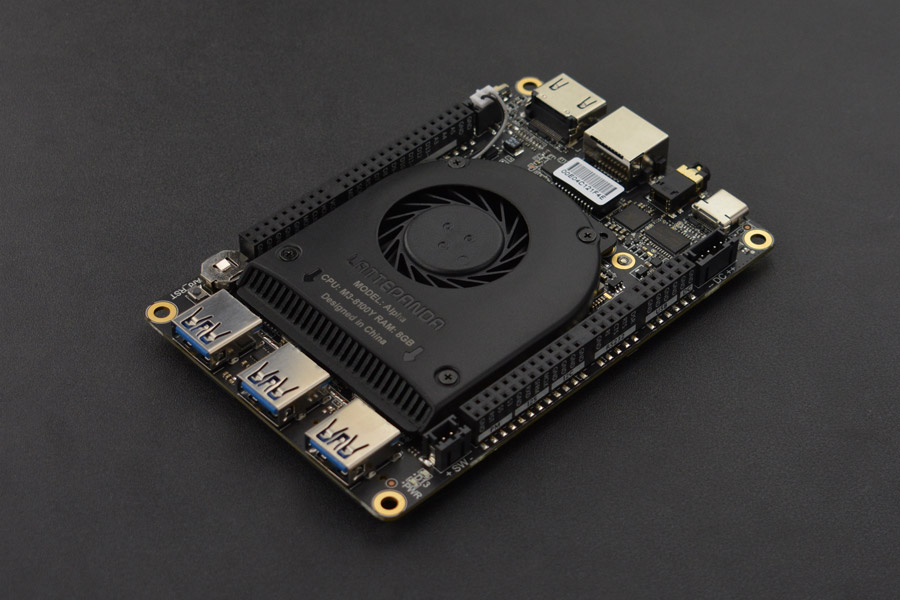
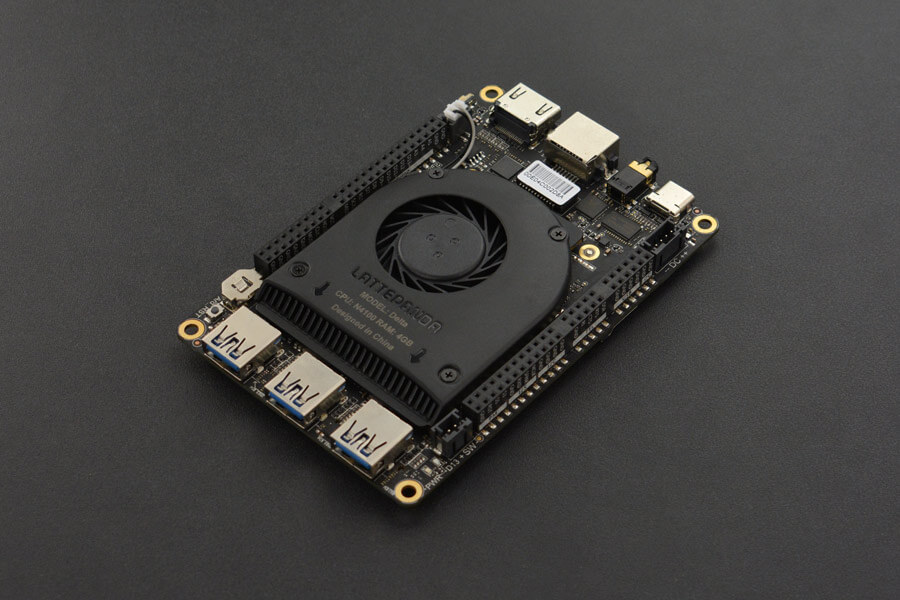
GitBook: [master] one page and 2 assets modified

Changed region(s): [[0.1556, 0.12, 0.8711, 0.9]]

diff --git a/electronics/external-boards/lattepanda.md b/electronics/external-boards/lattepanda.md
@@ -4,13 +4,13 @@ description: A powerful micro-processor capable of running desktop windows.
 
 # LattePanda
 
-{% hint style="info" %}
-This page is still under construction. TODO: Add delta series portion.
-{% endhint %}
-
 The LattePanda is a powerful mini-PC capable of running desktop windows, with an [arduino](arduino.md) pinout and co-processor. Its power comes mostly from its large amount of storage and RAM. 
 
 Although it might be overkill for most usages in VEX robotics, its still worth documenting for more memory-intensive programs or competition hosting purposes.
+
+**According to LattePanda Marketing -** 
+
+**"LattePanda is a new single board computer that runs a full version of Windows 10! Each unit comes preinstalled with Windows 10 Home Edition."**
 
 ### LattePanda V1.0
 
@@ -95,7 +95,7 @@ The LattePanda Alpha series comes in the 800s and 864s variants, with the 864s h
 
 **"Alpha Edition** - Generally refers to the leader in a wolf pack, α / Alpha. It will also be the leader in the LattePanda series, the most powerful in performance. Known as the leader of the Pandas, or "AlphaPanda" for short.**"**
 
-![LattePanda Alpha Series](../../.gitbook/assets/image%20%2810%29.png)
+![LattePanda Alpha Series](../../.gitbook/assets/image%20%2811%29.png)
 
 ### **Specifications:**
 
@@ -123,14 +123,14 @@ The LattePanda Alpha series comes in the 800s and 864s variants, with the 864s h
       <td style="text-align:left">Processor(s):</td>
       <td style="text-align:left">
         <ul>
-          <li>Intel Cherry Trail Z8350 Quad Core</li>
+          <li>Intel 8th M3-8100Y</li>
           <li>Integrated Arduino Co-processor <a href="arduino.md#arduino-leonardo">(Arduino Leonardo)</a>
           </li>
         </ul>
       </td>
       <td style="text-align:left">
         <ul>
-          <li>Intel HD Graphics 615, 300-900MHz</li>
+          <li>Intel 8th M3-8100Y</li>
           <li>Integrated Arduino Co-processor <a href="arduino.md#arduino-leonardo">(Arduino Leonardo)</a>
           </li>
         </ul>
@@ -187,16 +187,93 @@ The LattePanda Alpha series comes in the 800s and 864s variants, with the 864s h
       <td style="text-align:left">115mm<em> </em>x 78mm x 14 mm</td>
       <td style="text-align:left">115mm x<em> </em>78mm x 14 mm</td>
     </tr>
+    <tr>
+      <td style="text-align:left">GPIO</td>
+      <td style="text-align:left">2x 50p GPIOs including I2C, I2S, USB, RS232, UART, RTC</td>
+      <td style="text-align:left">2x 50p GPIOs including I2C, I2S, USB, RS232, UART, RTC</td>
+    </tr>
   </tbody>
 </table>
 
 ### LattePanda Delta Series
 
-The LattePanda Delta series comes in the 432s series.
+The LattePanda Delta series comes in the 432 ****model, and is nearly identical to the 800 series. The only differences come in the specifications in storage, processor, and memory.
 
 **According to LattePanda Marketing -** 
 
 **"** **Delta Edition -** Mathematical Character △; a triangle. In terms of product design, performance, and price, it signals a compromise between the three. It keeps the perfect balancing, while balancing best reflects the beauty of engineering.**"**
+
+![LattePanda Delta 432](../../.gitbook/assets/image%20%2810%29.png)
+
+#### 
+
+<table>
+  <thead>
+    <tr>
+      <th style="text-align:left">Specification</th>
+      <th style="text-align:left"> <b>Delta 432</b>
+      </th>
+    </tr>
+  </thead>
+  <tbody>
+    <tr>
+      <td style="text-align:left">RAM</td>
+      <td style="text-align:left">4 GB LPDDR4 2400MHz Dual-Channel</td>
+    </tr>
+    <tr>
+      <td style="text-align:left">Memory</td>
+      <td style="text-align:left">32GB eMMC V5.0l</td>
+    </tr>
+    <tr>
+      <td style="text-align:left">Processor(s):</td>
+      <td style="text-align:left">
+        <ul>
+          <li>Intel 8th Gen Celeron Processor N4100</li>
+          <li>Integrated Arduino Co-processor <a href="arduino.md#arduino-leonardo">(Arduino Leonardo)</a>
+          </li>
+        </ul>
+      </td>
+    </tr>
+    <tr>
+      <td style="text-align:left">GPU:</td>
+      <td style="text-align:left">Intel HD Graphics 615, 300-900MHz</td>
+    </tr>
+    <tr>
+      <td style="text-align:left">USB Ports:</td>
+      <td style="text-align:left">
+        <ul>
+          <li>3x USB 3.0 Type A</li>
+          <li>1x USB Type C, supports PD, DP, USB 3.0</li>
+        </ul>
+      </td>
+    </tr>
+    <tr>
+      <td style="text-align:left">Wired Connections</td>
+      <td style="text-align:left">Gigabyte Ethernet</td>
+    </tr>
+    <tr>
+      <td style="text-align:left">Wireless Connections</td>
+      <td style="text-align:left">
+        <ul>
+          <li>WIFI 802.11 AC, 2.4G &amp; 5G</li>
+          <li>Dual Band Bluetooth 5.0</li>
+        </ul>
+      </td>
+    </tr>
+    <tr>
+      <td style="text-align:left">Video Output</td>
+      <td style="text-align:left">HDMI Output / Type-C DP Support / Extendable eDP touch displays</td>
+    </tr>
+    <tr>
+      <td style="text-align:left">Board Size</td>
+      <td style="text-align:left">115mm<em> </em>x 78mm x 14 mm</td>
+    </tr>
+    <tr>
+      <td style="text-align:left">GPIO</td>
+      <td style="text-align:left">2x 50p GPIOs including I2C, I2S, USB, RS232, UART, RTC</td>
+    </tr>
+  </tbody>
+</table>
 
 #### Teams Contributed to this Article:
 
